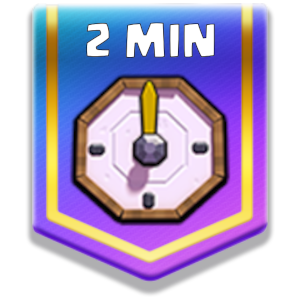
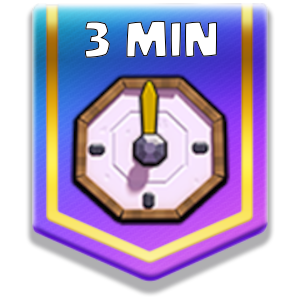
Clash Bingo

Changed region(s): [[0.42, 0.06, 0.75, 0.21], [0.27, 0.06, 0.39, 0.21]]

diff --git a/data.py b/data.py
@@ -60,7 +60,8 @@ MODIFIERS_DESCRIPTION = {
     '2v2.png': "Play on 2v2.",
     'elixir_3.png': "Use a deck of 3 or less elixir.",
     'elixir_5.png': "Use a deck of 5 or more elixir.",
-    'Time.png': "Destroy a tower before x2 elixir.",
+    'Time.png': "Win without overtime.",
+    'TimeTower.png': "Destroy a tower before x2 elixir.",
     'TowerActivation.png': "Activate enemy King Tower within 20 seconds.",
     'TowerActivationSelf.png': "Have Tornado and activate your King Tower.",
     'FullTower.png': "Have one side-tower full HP.",
@@ -74,7 +75,7 @@ INCOMPATIBLE_MODIFIERS = {
         'elixir': ['elixir_5.png', 'elixir_3.png'],
         'Rocket_King_Tower.png': ['TowerActivation.png'],
         'KingTower.png': ['TowerActivation.png', 'RedCrown.png', '3Crowns.png'],
-        'Spells.png': ['Time.png', 'NoSpells.png'],
+        'Spells.png': ['NoSpells.png'],
         'Perfection.png': ['RedCrown.png', 'TowerActivationSelf.png'],
         'Buildings.png': ['Rarity.png', 'elixir_5.png', 'elixir_3.png', 'NoSpells.png', 'TowerActivationSelf.png'],
         'arena': ['elixir_3.png', 'elixir_5.png', 'Rarity.png'],
